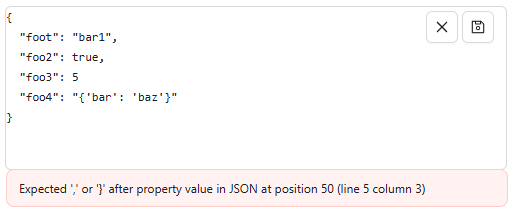
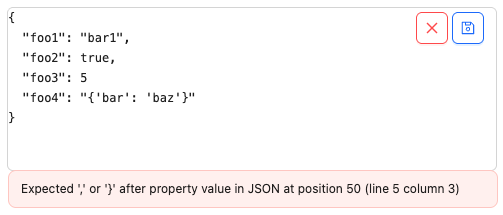
style: adjust button styles while editing caps JSON or title (#2371)

Changed region(s): [[0.0, 0.0282, 0.9841, 0.9859], [0.9543, 0.169, 0.9841, 0.1972]]

diff --git a/app/common/renderer/components/SessionBuilder/SessionBuilder.jsx b/app/common/renderer/components/SessionBuilder/SessionBuilder.jsx
@@ -1,5 +1,5 @@
 import {LinkOutlined} from '@ant-design/icons';
-import {Badge, Button, Divider, Spin, Tabs} from 'antd';
+import {Badge, Button, Divider, Space, Spin, Tabs} from 'antd';
 import _ from 'lodash';
 import {useEffect} from 'react';
 import {useNavigate} from 'react-router';
@@ -169,25 +169,28 @@ const Session = (props) => {
               {t('desiredCapabilitiesDocumentation')}
             </a>
           </div>
-          {!isAttaching && capsUUID && (
-            <Button
-              onClick={() =>
-                saveSession(server, serverType, caps, {name: capsName, uuid: capsUUID})
-              }
-              disabled={!isCapsDirty || isEditingDesiredCaps}
-            >
-              {t('Save')}
-            </Button>
-          )}
           {!isAttaching && (
-            <Button onClick={requestSaveAsModal} disabled={isEditingDesiredCaps}>
-              {t('saveAs')}
-            </Button>
+            <Space.Compact>
+              {capsUUID && (
+                <Button
+                  onClick={() =>
+                    saveSession(server, serverType, caps, {name: capsName, uuid: capsUUID})
+                  }
+                  disabled={!isCapsDirty || isEditingDesiredCaps}
+                >
+                  {t('Save')}
+                </Button>
+              )}
+              <Button onClick={requestSaveAsModal} disabled={isEditingDesiredCaps}>
+                {t('saveAs')}
+              </Button>
+            </Space.Compact>
           )}
           {!isAttaching && (
             <Button
               type={BUTTON.PRIMARY}
               id="btnStartSession"
+              disabled={isEditingDesiredCaps}
               onClick={() => loadNewSession(caps)}
               className={styles.startSessionBtn}
             >

diff --git a/app/common/renderer/components/SessionBuilder/CapabilityJSON/CapabilityJSON.jsx b/app/common/renderer/components/SessionBuilder/CapabilityJSON/CapabilityJSON.jsx
@@ -75,6 +75,8 @@ const CapabilityJSON = (props) => {
           <Tooltip title={t('Cancel')}>
             <Button
               size="small"
+              color="danger"
+              variant="outlined"
               onClick={abortDesiredCapsNameEditor}
               icon={<CloseOutlined />}
               className={styles.capsNameEditorButton}
@@ -83,6 +85,8 @@ const CapabilityJSON = (props) => {
           <Tooltip title={t('Save')}>
             <Button
               size="small"
+              color="primary"
+              variant="outlined"
               onClick={saveDesiredCapsName}
               icon={<SaveOutlined />}
               className={styles.capsNameEditorButton}
@@ -100,6 +104,8 @@ const CapabilityJSON = (props) => {
           {isEditingDesiredCaps && (
             <Tooltip title={t('Cancel')}>
               <Button
+                color="danger"
+                variant="outlined"
                 onClick={abortDesiredCapsEditor}
                 icon={<CloseOutlined />}
                 className={styles.capsEditorButton}
@@ -109,6 +115,8 @@ const CapabilityJSON = (props) => {
           {isEditingDesiredCaps && (
             <Tooltip title={t('Save')}>
               <Button
+                color="primary"
+                variant="outlined"
                 onClick={saveRawDesiredCaps}
                 icon={<SaveOutlined />}
                 className={styles.capsEditorButton}
